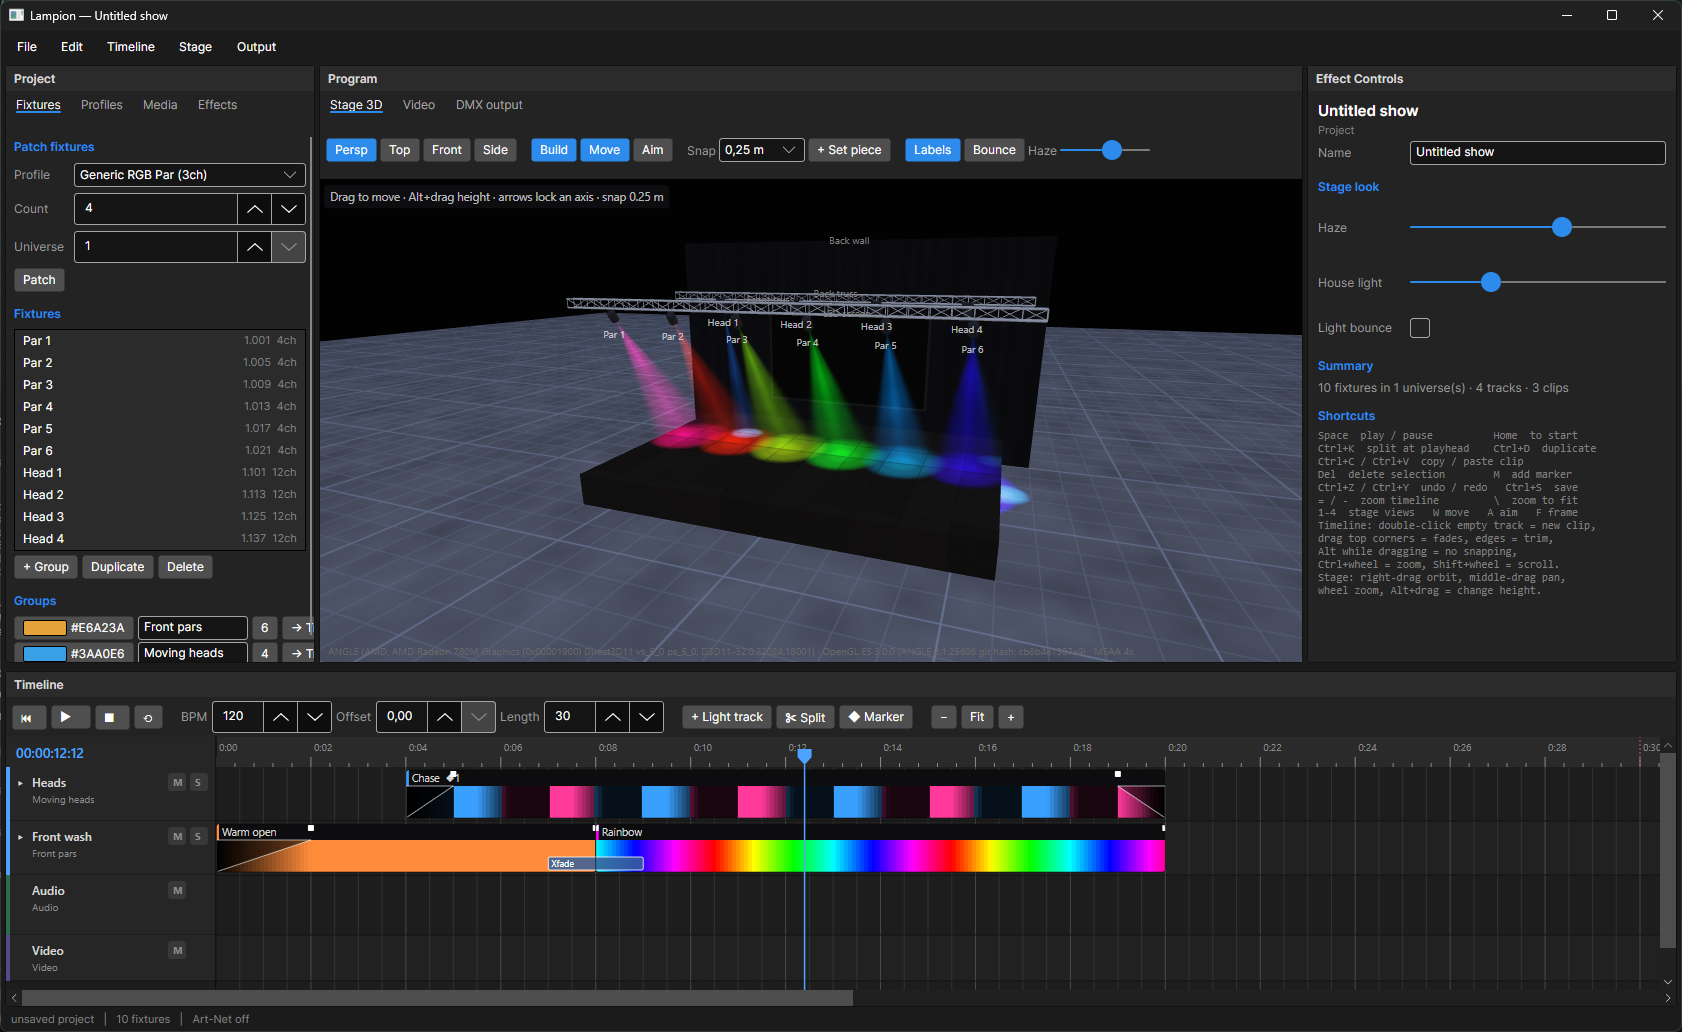
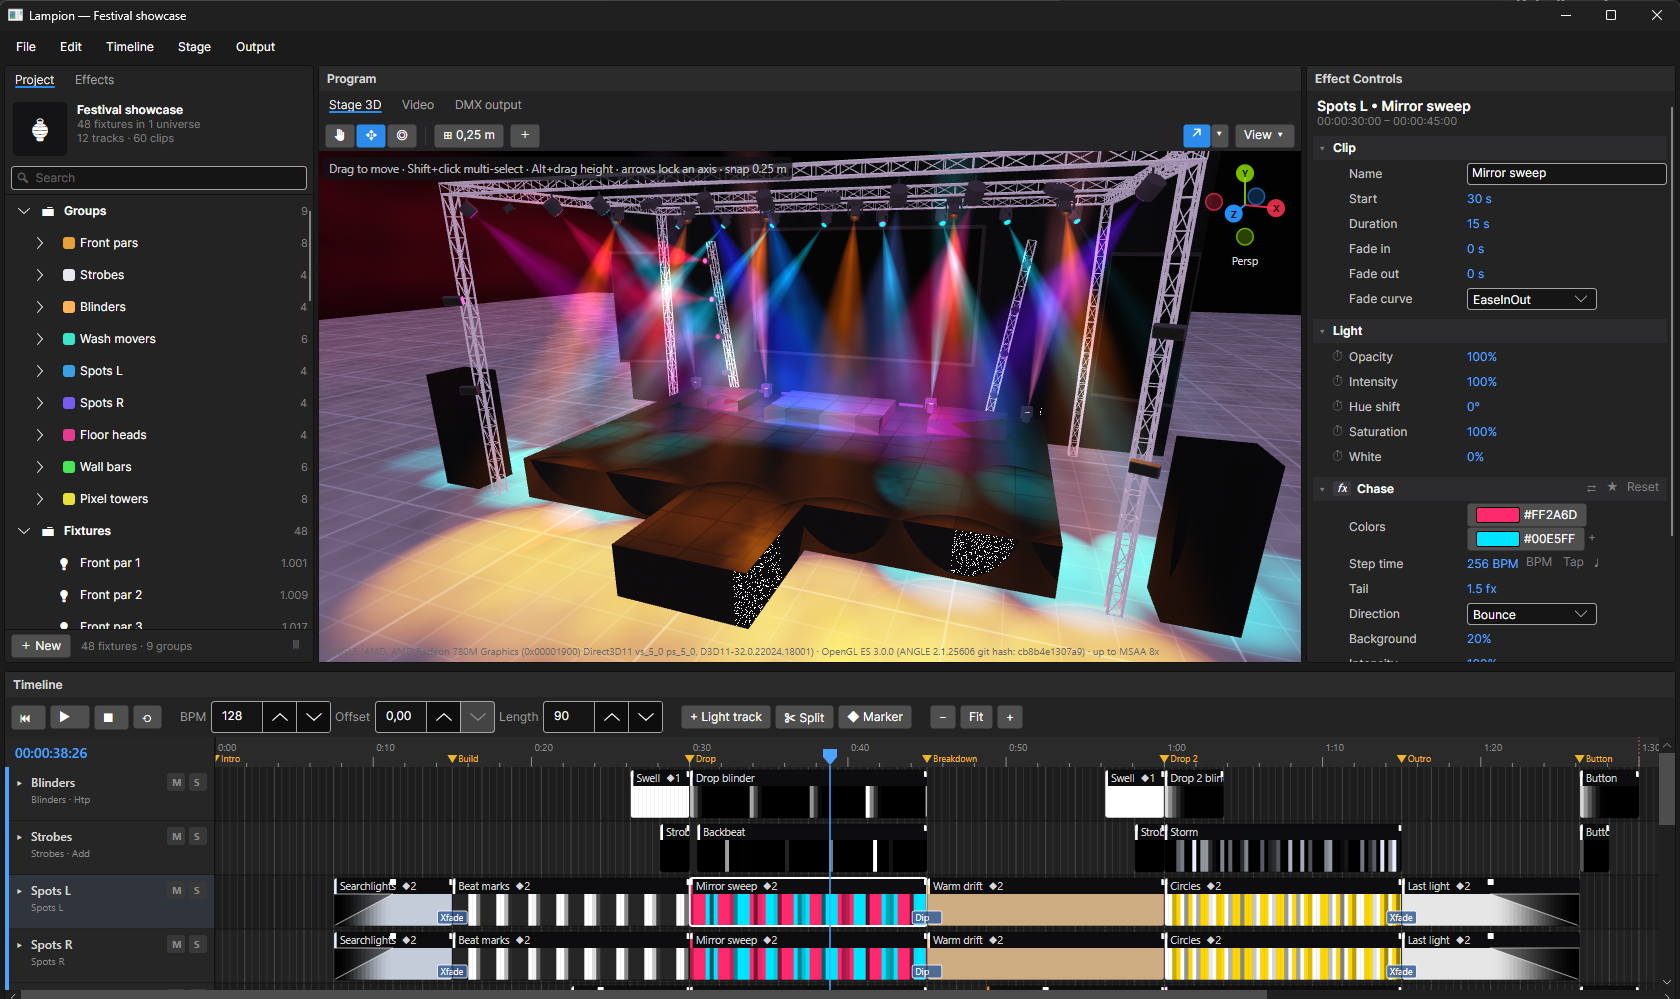
docs: cover the live console in the README and refresh the screenshot
Adds live console and music highlights, the Ctrl+L shortcut, and a new screenshot of the festival showcase mid-drop. Also fixes a shortcut row that had landed on the README's first line.

diff --git a/README.md b/README.md
@@ -1,8 +1,8 @@
-| <kbd>Ctrl</kbd>+<kbd>L</kbd> | Live console | <div align="center">
+<div align="center">
 
 # 🏮 Lampion
 
-**Design light shows on a timeline, see them in real 3D, and send them to QLC+.**
+**Design light shows on a timeline, see them in real 3D, send them to QLC+ or run them live.**
 
 [![Release](https://github.com/arukosakai/lampion/actions/workflows/release.yml/badge.svg)](https://github.com/arukosakai/lampion/actions/workflows/release.yml)
 [![Latest release](https://img.shields.io/github/v/release/arukosakai/lampion?include_prereleases&sort=semver)](https://github.com/arukosakai/lampion/releases)
@@ -10,11 +10,11 @@
 ![Platforms](https://img.shields.io/badge/platform-Windows%20%7C%20macOS%20%7C%20Linux-2D8CEB)
 [![License: Unlicense](https://img.shields.io/badge/license-Unlicense-lightgrey)](LICENSE)
 
-<img src="docs/screenshot.png" alt="Lampion: fixtures on the left, the 3D stage in the middle, effect controls on the right and the timeline below" width="900">
+<img src="docs/screenshot.png" alt="Lampion playing the festival showcase: groups and fixtures on the left, the lit 3D festival stage in the middle, a chase clip's effect controls on the right and the timeline below" width="900">
 
 </div>
 
-You patch your DMX fixtures, build the venue in metres, and lay your lights out on an After Effects-style timeline next to the music and video. Lampion previews the show live in GPU-rendered 3D, works out every DMX value itself, and exports a ready-to-run QLC+ workspace.
+You patch your DMX fixtures, build the venue in metres, and lay your lights out on an After Effects-style timeline next to the music and video. Lampion previews the show live in GPU-rendered 3D, works out every DMX value itself, and exports a ready-to-run QLC+ workspace. On show night, the live console plays a set list of your shows in sync with the music, with faders, effect pads and a MIDI controller on top.
 
 ---
 
@@ -59,6 +59,26 @@ You patch your DMX fixtures, build the venue in metres, and lay your lights out 
 - A stage builder in metres: truss (lying, standing as towers, or built into arches and cubes with lights), risers, walls and LED screens that play your video; every set piece and fixture can be yawed, pitched and rolled
 - A Unity-style scene gizmo for axis views and ortho, move gizmos, grid snapping, an aim tool, and throw and spot-size readouts
 - Stage layouts you save once and reuse in every project
+
+</td>
+</tr>
+<tr>
+<td valign="top">
+
+### 🎚 Live console
+- A set list of shows, cut to with **GO**, with the song as the master clock for the lights
+- Faders for intensity, colour or any channel, and launchpad-style effect pads
+- MIDI learn, plus one-click mapping for the Akai APC mini mk2 with lit pads
+- A 100 Hz engine on its own thread, built to keep running through errors on show night
+
+</td>
+<td valign="top">
+
+### 🎵 Music & video
+- Audio and video clips on the timeline, with waveforms and a beat grid to edit against
+- MP3s are conformed to WAV in the background so playback starts on the right spot anywhere in the song
+- LED screens on the stage play your video
+- The QLC+ export brings the audio and video along at their timeline positions
 
 </td>
 </tr>
@@ -146,7 +166,7 @@ The 3D preview is drawn **from the computed DMX**, decoded back into light, so w
 | <kbd>=</kbd> / <kbd>-</kbd> / <kbd>\\</kbd> | Zoom in / out / fit | <kbd>Ctrl</kbd>+<kbd>S</kbd> | Save |
 | <kbd>1</kbd>–<kbd>5</kbd> | Persp / top / front / right / toggle ortho | <kbd>Ctrl</kbd>+<kbd>E</kbd> | Export to QLC+ |
 | <kbd>Q</kbd> / <kbd>W</kbd> / <kbd>A</kbd> | Hand / move / aim tool | <kbd>F</kbd> | Frame selection |
-| | | <kbd>Ctrl</kbd>+<kbd>Shift</kbd>+<kbd>P</kbd> | Project settings |
+| <kbd>Ctrl</kbd>+<kbd>L</kbd> | Live console | <kbd>Ctrl</kbd>+<kbd>Shift</kbd>+<kbd>P</kbd> | Project settings |
 
 **Stage:** right-drag to orbit, middle-drag to pan, scroll to zoom, <kbd>Alt</kbd>+drag to change height.
 **Timeline:** double-click an empty track for a new clip, <kbd>Ctrl</kbd>+scroll to zoom, <kbd>Alt</kbd> while dragging to turn snapping off.
@@ -165,9 +185,9 @@ dotnet test                                       # engine tests
 
 | Project | Contents |
 | --- | --- |
-| `src/Lampion.Core` | Model, show evaluator, DMX mapping, QLC+ export, Art-Net and USB DMX output, stage layouts, 3D model import (glTF/OBJ). No UI dependencies. |
-| `src/Lampion.App` | Avalonia UI, the OpenGL stage renderer and LibVLC media playback |
-| `tests/Lampion.Core.Tests` | xUnit tests for the engine and the exporter |
+| `src/Lampion.Core` | Model, show evaluator, DMX mapping, QLC+ export, Art-Net and USB DMX output, the live engine and MIDI, stage layouts, 3D model import (glTF/OBJ). No UI dependencies. |
+| `src/Lampion.App` | Avalonia UI, the live console window, the OpenGL stage renderer and LibVLC media playback |
+| `tests/Lampion.Core.Tests` | xUnit tests for the engine, the exporter, the live engine and MIDI, including fuzz and allocation tests |
 
 ### Releasing
 
